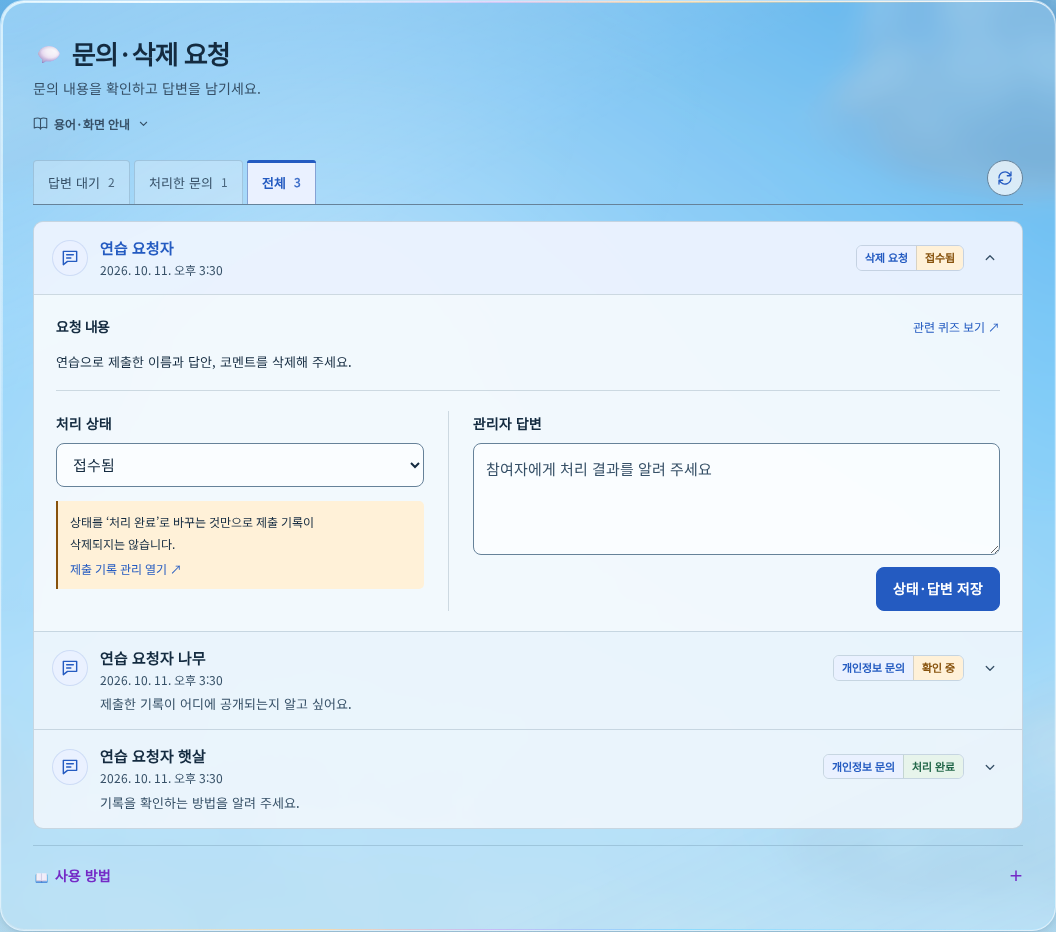
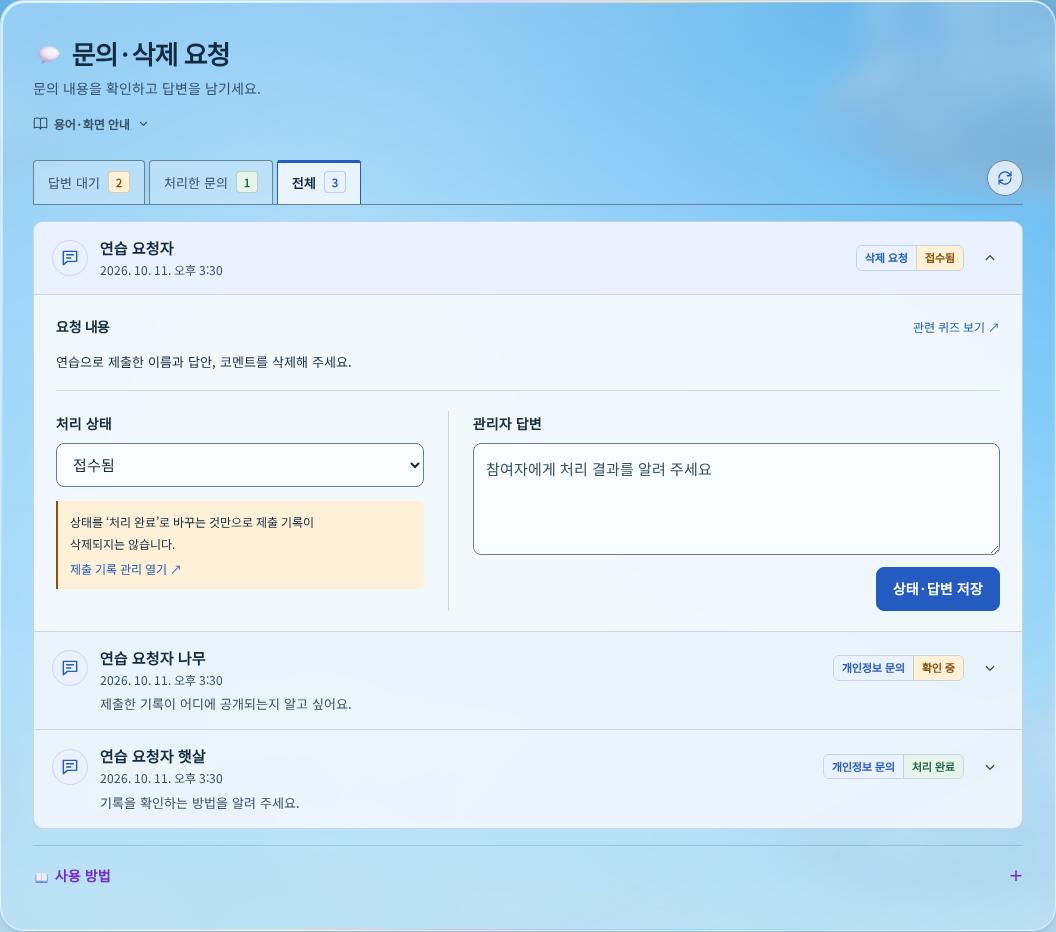
Refine status cells and night board contrast

Changed region(s): [[0.0938, 0.1556, 0.3438, 0.2178], [0.0938, 0.2489, 0.1562, 0.28]]

diff --git a/docs/design/phase-9/admin-boards/review.html b/docs/design/phase-9/admin-boards/review.html
@@ -4,13 +4,27 @@
 <title>관리자 실제 화면과 생성 시안 비교</title>
 <style>
 body{margin:0;background:#eaf4fa;color:#17334a;font:15px/1.7 system-ui,sans-serif}main{max-width:1320px;margin:auto;padding:28px 20px}h1{font-size:26px;margin:0 0 8px}h2{font-size:21px;margin:0 0 8px}p{margin:8px 0 20px}section{border-top:1px solid #b8cfde;padding:24px 0}a{color:#245ac1}nav{display:flex;flex-wrap:wrap;gap:12px 24px;margin:20px 0}img{display:block;width:100%;height:auto;border:1px solid #b8cfde;background:white;border-radius:8px}figure{margin:0;min-width:0}figcaption{font-weight:600;margin-bottom:10px}.compare{display:grid;grid-template-columns:1fr 1fr;gap:24px;align-items:start}.quiz{max-width:1060px}small{display:block;color:#496376}a:focus-visible{outline:3px solid #245ac1;outline-offset:4px}@media(max-width:850px){.compare{grid-template-columns:1fr}}
-</style>
+.themes{display:flex;gap:6px;margin:18px 0}.themes button{min-height:40px;padding:8px 14px;border:1px solid #8baabe;border-radius:5px;background:transparent;color:inherit;cursor:pointer;font:inherit}.themes button[aria-pressed=true]{background:#245ac1;color:white;border-color:#245ac1}.themes button:focus-visible{outline:3px solid #245ac1;outline-offset:3px}body[data-preview=night]{background:#152839;color:#eaf2fa}body[data-preview=night] a{color:#acc8ff}body[data-preview=night] small{color:#c0d2e6}</style>
 <main>
 <h1>관리자 실제 화면과 생성 시안</h1>
-<p>2026년 10월 14일 적용 화면입니다. 바깥 창은 투명하게, 현황과 목록은 선명한 바탕으로 구분했습니다. 실제 React UI에 연습 자료를 표시해 촬영했으며, 이미지를 누르면 원본을 크게 볼 수 있습니다.</p>
+<p>2026년 10월 14일 적용 화면입니다. 현황 세 칸과 Live를 구분하고, 밤의 목록 바탕을 밝은 회청색으로 조정했습니다. 실제 React UI에 연습 자료를 표시해 촬영했으며, 이미지를 누르면 원본을 크게 볼 수 있습니다.</p>
 <nav aria-label="실제 관리자 화면"><a href="/admin">퀴즈 관리 열기</a><a href="/admin/submissions">참여 기록 열기</a><a href="/admin/privacy-requests">문의·삭제 요청 열기</a></nav>
-<section><h2>퀴즈 관리</h2><p>공개 중·작성 중·답변 대기 현황과 Live 퀴즈를 한 행으로 묶었습니다. 그 아래 게시판에는 설교일·제목·참여 인원·작업 아이콘을 모았습니다.</p><figure class="quiz"><figcaption>실제 화면 · 연습 자료</figcaption><a href="quiz-actual.png"><img src="quiz-actual.png" alt="실제 퀴즈 관리: 한 행의 현황·Live와 설교일 기준 게시판"></a></figure></section>
-<section><h2>참여 기록</h2><p>행을 펼치면 왼쪽에는 답안과 코멘트, 오른쪽에는 처리 폼이 나타납니다. 시안의 정오답 색 대신 실제 제출값을 표시합니다.</p><div class="compare"><figure><figcaption>실제 화면 · 연습 자료</figcaption><a href="submissions-actual.png"><img src="submissions-actual.png" alt="실제 참여 기록: 한 행을 펼친 답안과 관리 폼, 나머지 짧은 행"></a></figure><figure><figcaption>기존 생성 시안 · 배치 참고</figcaption><a href="submissions-reference.png"><img src="submissions-reference.png" alt="참여 기록의 기존 생성 시안"></a></figure></div></section>
-<section><h2>문의·삭제 요청</h2><p>접힌 행에는 이름·분류·상태·날짜와 한 줄 미리보기가 보입니다. 펼치면 전체 원문과 상태·답변 폼을 확인할 수 있습니다.</p><div class="compare"><figure><figcaption>실제 화면 · 연습 자료</figcaption><a href="inquiries-actual.png"><img src="inquiries-actual.png" alt="실제 문의 게시판: 펼친 요청의 상태 선택과 답변 입력, 접힌 나머지 요청"></a></figure><figure><figcaption>기존 생성 시안 · 배치 참고</figcaption><a href="inquiries-reference.png"><img src="inquiries-reference.png" alt="문의 게시판의 기존 생성 시안"></a></figure></div></section>
+<div class="themes" role="group" aria-label="실제 화면 시간대"><button type="button" data-preview-time="day" aria-pressed="true">☀ 낮 화면</button><button type="button" data-preview-time="night" aria-pressed="false">☾ 밤 화면</button></div>
+<p>낮·밤 버튼으로 실제 화면을 바꿔 볼 수 있습니다. 기존 생성 시안 두 장은 낮 배경을 유지합니다.</p>
+<section><h2>퀴즈 관리</h2><p>구분선으로 나눈 현황 세 칸은 숫자가 중심이며, 마우스를 올리면 칸 전체가 채워집니다. Live는 초록 표식과 투명한 바탕으로 구분했습니다. 인덱스의 작은 개수 박스에도 의미별 색을 적용했습니다.</p><figure class="quiz"><figcaption>실제 화면 · 연습 자료</figcaption><a href="quiz-actual.png"><img data-screenshot-day="quiz-actual.png" data-screenshot-night="quiz-night.png" src="quiz-actual.png" alt="실제 퀴즈 관리: 한 행의 현황·Live와 설교일 기준 게시판"></a></figure></section>
+<section><h2>참여 기록</h2><p>행을 펼치면 왼쪽에는 답안과 코멘트, 오른쪽에는 처리 폼이 나타납니다. 점수와 상태를 작은 박스로 구분하고, 실제 제출값은 입력한 칸을 파랑·빈칸을 호박색으로 표시합니다.</p><div class="compare"><figure><figcaption>실제 화면 · 연습 자료</figcaption><a href="submissions-actual.png"><img data-screenshot-day="submissions-actual.png" data-screenshot-night="submissions-night.png" src="submissions-actual.png" alt="실제 참여 기록: 한 행을 펼친 답안과 관리 폼, 나머지 짧은 행"></a></figure><figure><figcaption>기존 생성 시안 · 배치 참고</figcaption><a href="submissions-reference.png"><img src="submissions-reference.png" alt="참여 기록의 기존 생성 시안"></a></figure></div></section>
+<section><h2>문의·삭제 요청</h2><p>접힌 행에는 이름·분류·상태·날짜와 한 줄 미리보기가 보입니다. 펼치면 전체 원문과 상태·답변 폼을 확인할 수 있습니다.</p><div class="compare"><figure><figcaption>실제 화면 · 연습 자료</figcaption><a href="inquiries-actual.png"><img data-screenshot-day="inquiries-actual.png" data-screenshot-night="inquiries-night.png" src="inquiries-actual.png" alt="실제 문의 게시판: 펼친 요청의 상태 선택과 답변 입력, 접힌 나머지 요청"></a></figure><figure><figcaption>기존 생성 시안 · 배치 참고</figcaption><a href="inquiries-reference.png"><img src="inquiries-reference.png" alt="문의 게시판의 기존 생성 시안"></a></figure></div></section>
 <small>기존 생성 이미지는 재사용했습니다. 실제 화면 이미지에는 개인 자료나 실제 운영 답안을 포함하지 않았습니다.</small>
-</main></html>
+</main>
+<script>
+const controls=[...document.querySelectorAll('[data-preview-time]')];
+controls.forEach(button=>button.addEventListener('click',()=>{
+ const time=button.dataset.previewTime;
+ document.body.dataset.preview=time;
+ controls.forEach(control=>control.setAttribute('aria-pressed',String(control===button)));
+ document.querySelectorAll('[data-screenshot-day]').forEach(img=>{
+  img.src=time==='night'?img.dataset.screenshotNight:img.dataset.screenshotDay;
+  img.closest('a').href=img.src;
+ });
+}));
+</script></html>

diff --git a/src/features/admin-weekly/dashboard.module.css b/src/features/admin-weekly/dashboard.module.css
@@ -1,16 +1,18 @@
 .page { display: grid; gap: 16px; min-width: 0; }
-.statusBar { display: flex; align-items: stretch; min-width: 0; border: 1px solid var(--line); border-radius: 8px; background: var(--admin-board-surface,var(--glass-solid)); }
-.overview { display: flex; flex-shrink: 0; align-items: center; gap: 12px; padding: 12px 16px; }
-.overview > :is(button,a) { display: flex; align-items: center; gap: 10px; min-height: 36px; padding: 0 4px; border: 0; border-radius: 4px; background: transparent; color: var(--ink); text-decoration: none; font-size: 13px; }
-.overview > :is(button,a):hover { background: var(--glass-soft); }
-.overview strong { font-size: 18px; font-weight: 600; font-variant-numeric: tabular-nums; }
-.overview > :is(button,a) > span:last-child { display: none; }
-.overview > :first-child strong { color: var(--ui-success); }
-.overview > :nth-child(2) strong { color: var(--ui-action); }
-.overview > :nth-child(3) strong { color: var(--ui-attention); }
-.featured { display: flex; flex: 1; min-width: 0; align-items: center; gap: 12px; padding: 12px 16px; border-left: 1px solid var(--line); }
-.featuredCopy { flex: 1; display: grid; grid-template-columns: auto minmax(0,1fr); align-items: baseline; column-gap: 12px; min-width: 0; }
-.caption { display: inline-flex; align-items: center; color: var(--ui-success); font-size: 12px; font-weight: 700; letter-spacing: .02em; }
+.statusBar { display: grid; grid-template-columns: minmax(300px,.85fr) minmax(0,1.5fr); gap: 12px; align-items: stretch; min-width: 0; }
+.overview { display: grid; grid-template-columns: repeat(3,minmax(0,1fr)); border: 1px solid var(--admin-board-border,var(--line)); border-radius: 8px; background: var(--admin-board-surface,var(--glass-solid)); }
+.overview > :is(button,a) { display: flex; flex-direction: column; align-items: flex-start; justify-content: center; gap: 4px; min-height: 84px; min-width: 0; padding: 10px 14px; border: 0; border-radius: 0; background: transparent; color: var(--ink); text-decoration: none; transition: background-color .18s ease; }
+.overview > :is(button,a) + :is(button,a) { border-left: 1px solid var(--admin-board-border,var(--line)); }
+.overview > :first-child { border-radius: 7px 0 0 7px; }
+.overview > :last-child { border-radius: 0 7px 7px 0; }
+.overview > :is(button,a):is(:hover,:focus-visible,[aria-pressed=true]) { background: var(--admin-tone-bg); }
+.metricLabel { display: inline-flex; align-items: center; gap: 4px; color: var(--muted); font-size: 12px; white-space: nowrap; }
+.metricValue { display: inline-flex; align-items: baseline; gap: 5px; line-height: 1.2; color: var(--admin-tone); }
+.metricValue strong { font-size: 26px; font-weight: 600; font-variant-numeric: tabular-nums; }
+.metricValue small { color: var(--muted); font-size: 11px; }
+.featured { display: flex; min-width: 0; align-items: center; gap: 12px; padding: 12px 16px; border: 1px solid var(--line); border-left: 3px solid var(--ui-success); border-radius: 8px; background: var(--glass-soft); }
+.featuredCopy { flex: 1; display: grid; grid-template-columns: auto minmax(0,1fr); align-items: baseline; column-gap: 10px; min-width: 0; }
+.caption { display: inline-flex; justify-self: start; align-items: center; gap: 3px; padding: 3px 7px; border: 1px solid color-mix(in srgb,var(--ui-success) 28%,transparent); border-radius: 4px; color: var(--ui-success); background: var(--ui-success-bg); font-size: 11px; font-weight: 700; letter-spacing: .02em; }
 :global(.sky-app:not(.home-shell) .admin-main) .featured h3 { margin: 0; font-family: 'Noto Sans KR',sans-serif; font-size: 15px; font-weight: 600; line-height: 1.7; overflow-wrap: anywhere; }
 .featured p { grid-column: 2; margin: 2px 0 0; color: var(--muted); font-size: 12px; }
 .featured > a { flex-shrink: 0; font-size: 12px; }
@@ -21,10 +23,10 @@
 .library > [data-admin-list-toolbar] { margin-bottom: 12px; }
 .search { width: min(100%,220px); }
 .search input { width: 100%; min-height: 40px; padding: 8px 12px; border: 1px solid var(--line); border-radius: 6px; background: var(--glass-field); color: var(--ink); font: inherit; font-size: 13px; }
-.quizList { margin: 0; padding: 0; list-style: none; border: 1px solid var(--line); border-radius: 10px; overflow: clip; background: var(--admin-board-surface,var(--glass-solid)); }
-.quizList > li + li { border-top: 1px solid var(--line); }
+.quizList { margin: 0; padding: 0; list-style: none; border: 1px solid var(--admin-board-border,var(--line)); border-radius: 10px; overflow: clip; background: var(--admin-board-surface,var(--glass-solid)); }
+.quizList > li + li { border-top: 1px solid var(--admin-board-border,var(--line)); }
 .quizRow { display: grid; grid-template-columns: 66px minmax(0,1fr) auto; gap: 14px; align-items: center; min-height: 66px; padding: 10px 16px; }
-.quizRow:hover, .quizRow:focus-within { background: var(--ui-action-bg); }
+.quizRow:hover, .quizRow:focus-within { background: var(--admin-board-hover,var(--ui-action-bg)); }
 .date { display: grid; gap: 0; font-variant-numeric: tabular-nums; line-height: 1.5; padding-right: 12px; border-right: 1px solid var(--line); }
 .date span { color: var(--muted); font-size: 10px; }
 .date strong { font-size: 15px; font-weight: 600; }
@@ -53,14 +55,11 @@
 .footer > a:first-child { color: var(--ui-guide); }
 .alert { padding: 12px 16px; border-left: 3px solid var(--danger); background: var(--glass-reading); }
 @media (max-width: 1100px) {
- .statusBar { flex-direction: column; }
- .overview { justify-content: space-between; }
- .featured { border-left: 0; border-top: 1px solid var(--line); }
+ .statusBar { grid-template-columns: minmax(0,1fr); gap: 10px; }
 }
 @media (max-width: 760px) {
- .overview { gap: 6px; padding: 10px 12px; }
- .overview > :is(button,a) { gap: 6px; font-size: 12px; padding-inline: 0; }
- .overview strong { font-size: 16px; }
+ .overview > :is(button,a) { min-height: 78px; padding: 10px; }
+ .metricValue strong { font-size: 24px; }
  .featured { flex-wrap: wrap; padding: 12px; gap: 10px; }
  .featuredCopy { flex-basis: 100%; grid-template-columns: minmax(0,1fr); }
  .featured p { grid-column: 1; }
@@ -74,6 +73,8 @@
  .boardHeading { grid-template-columns: 54px minmax(0,1fr); gap: 10px; padding-inline: 12px; }
  .boardHeading > :last-child { display: none; }
 }
-@media (pointer: coarse) { .participant, .overview > :is(button,a) { min-height: 44px; } }
+@media (pointer: coarse) { .participant { min-height: 44px; } }
 
-@media (max-width: 360px) { .overview > :is(button,a) > span:first-child > [aria-hidden] { display: none; } }
+@media (max-width: 360px) { .metricLabel > [aria-hidden] { display: none; } }
+@media (prefers-reduced-motion: reduce) { .overview > :is(button,a) { transition: none; } }
+@media (forced-colors: active) { .overview > :is(button,a):is(:hover,:focus-visible,[aria-pressed=true]) { outline: 2px solid Highlight; outline-offset: -3px; } }

diff --git a/src/components/admin-list-tools.module.css b/src/components/admin-list-tools.module.css
@@ -1,18 +1,18 @@
 .toolbar { display: flex; flex-wrap: wrap; align-items: end; justify-content: space-between; gap: 8px 16px; border-bottom: 1px solid var(--control-border); min-width: 0; }
 .filters { display: flex; flex-wrap: wrap; align-items: end; gap: 4px; padding-top: 4px; }
-.filters button { position: relative; display: inline-flex; align-items: center; justify-content: center; gap: 8px; min-height: 44px; padding: 10px 14px; border: 1px solid var(--line); border-bottom: 0; border-radius: 4px 4px 0 0; background: var(--glass-soft); color: var(--muted); font-size: 13px; line-height: 1.5; transition: transform .18s ease, background-color .18s ease; }
+.filters button { position: relative; display: inline-flex; align-items: center; justify-content: center; gap: 8px; min-height: 44px; padding: 9px 14px; border: 1px solid var(--control-border); border-bottom: 0; border-radius: 4px 4px 0 0; background: var(--glass-soft); color: var(--muted); font-size: 13px; line-height: 1.5; transition: transform .18s ease, background-color .18s ease; }
 .filters button::before { content: ''; position: absolute; inset: -1px -1px auto; height: 3px; border-radius: 4px 4px 0 0; background: transparent; }
-.filters button[aria-pressed=true] { background: var(--ui-action-bg); color: var(--ui-action); font-weight: 600; border-color: color-mix(in srgb,var(--ui-action) 40%,var(--line)); }
-.filters button[aria-pressed=true]::before { background: var(--ui-action); }
-.filters button:is(:hover,:focus-visible) { transform: translateY(-4px); color: var(--ui-action); background: var(--ui-action-bg); }
-.filters span { font-size: 12px; font-variant-numeric: tabular-nums; opacity: .85; }
+.filters button[aria-pressed=true] { background: var(--admin-board-surface,var(--glass-solid)); color: var(--ink); font-weight: 600; border-color: var(--admin-tone); }
+.filters button[aria-pressed=true]::before { background: var(--admin-tone); }
+.filters button:is(:hover,:focus-visible) { transform: translateY(-4px); color: var(--ink); background: var(--admin-board-surface,var(--glass-solid)); }
+.filters span { display: inline-flex; justify-content: center; align-items: center; min-width: 22px; min-height: 22px; padding-inline: 5px; border: 1px solid color-mix(in srgb,var(--admin-tone) 24%,transparent); border-radius: 4px; background: var(--admin-tone-bg); color: var(--admin-tone); font-size: 11px; font-weight: 600; font-variant-numeric: tabular-nums; }
 .controls { display: flex; align-items: center; gap: 8px; min-width: 0; margin-bottom: 8px; }
 /* One size rule for every refresh and square action; touch keeps a generous target. */
 :global(.sky-app:not(.home-shell) .admin-main) .iconControl:global(.action-button) { --admin-icon-size: 36px; display: inline-flex; justify-content: center; align-items: center; flex: 0 0 var(--admin-icon-size); width: var(--admin-icon-size); height: var(--admin-icon-size); min-width: var(--admin-icon-size); min-height: var(--admin-icon-size); padding: 0; border: 1px solid var(--control-border); border-radius: 8px; color: var(--ui-action); background: var(--glass-field); box-shadow: none; }
 :global(.sky-app:not(.home-shell) .admin-main) .iconControl.refresh:global(.action-button) { border-radius: 50%; }
 .iconControl svg { display: block; width: 18px; height: 18px; flex: 0 0 18px; }
 @media (pointer: coarse) { :global(.sky-app:not(.home-shell) .admin-main) .iconControl:global(.action-button) { --admin-icon-size: 44px; } }
-@media (max-width: 600px) { .toolbar { gap: 8px; } .filters { gap: 3px; } .filters button { padding-inline: 9px; gap: 5px; font-size: 12px; } .controls:has(input) { width: 100%; order: -1; } }
+@media (max-width: 600px) { .toolbar { gap: 8px; } .filters { gap: 3px; } .filters button { padding-inline: 7px; gap: 4px; font-size: 12px; } .filters span { min-width: 20px; min-height: 20px; padding-inline: 4px; } .controls:has(input) { width: 100%; order: -1; } }
 @media (prefers-reduced-motion: reduce) { .filters button { transition: none; } }
 @media (forced-colors: active) { .filters button[aria-pressed=true] { border-color: Highlight; color: Highlight; } .filters button[aria-pressed=true]::before { background: Highlight; } }
 
@@ -30,4 +30,4 @@
 .guideBody { padding: 8px 14px; border: 1px solid var(--line); border-radius: 8px; background: var(--glass-soft); }
 @media (max-width: 600px) { :global(.sky-app:not(.home-shell) .admin-main) .heading h2 { font-size: 23px; } .heading p { font-size: 13px; } .guide > summary { min-height: 44px; } }
 
-@media (max-width: 360px) { .filters button { padding-inline: 5px; gap: 3px; font-size: 11px; } }
+@media (max-width: 360px) { .filters button { padding-inline: 3px; gap: 2px; font-size: 11px; } .filters span { min-width: 0; min-height: 20px; padding-inline: 2px; font-size: 10px; } }

diff --git a/src/features/admin-weekly/Dashboard.tsx b/src/features/admin-weekly/Dashboard.tsx
@@ -51,10 +51,10 @@ export function Component() {
     <AdminBoardHeader title="퀴즈 관리" description="퀴즈를 준비하고, 공개와 참여를 관리하세요." terms={["초안", "발행", "자동 선택", "대표 지정"]} screenshots={["dashboard"]} actions={<ButtonLink variant="primary" to="/admin/new">퀴즈 준비 <span aria-hidden="true">＋</span></ButtonLink>}/>
     {message && <p className={styles.alert} role="alert">{message}</p>}
     <div className={styles.statusBar} data-admin-summary>
-    <div className={styles.overview} aria-label="운영 요약">
-      <button type="button" onClick={() => setFilter("published")}><span><AdminEmoji>📣</AdminEmoji>공개 중</span><strong>{data ? published.length : "—"}</strong><span aria-hidden="true">↗</span></button>
-      <button type="button" onClick={() => setFilter("draft")}><span><AdminEmoji>✏</AdminEmoji>작성 중</span><strong>{data ? drafts.filter(q => !q.expired).length : "—"}</strong><span aria-hidden="true">↗</span></button>
-      <Link data-tone="attention" to="/admin/privacy-requests"><span><AdminEmoji>💬</AdminEmoji>답변 대기</span><strong>{data?.unansweredCount ?? "—"}</strong><span aria-hidden="true">↗</span></Link>
+    <div className={styles.overview} role="group" aria-label="운영 요약">
+      <button type="button" data-admin-tone="success" aria-pressed={filter === "published"} onClick={() => setFilter("published")}><span className={styles.metricLabel}><AdminEmoji>📣</AdminEmoji>공개 중</span><span className={styles.metricValue}><strong>{data ? published.length : "—"}</strong><small>건</small></span></button>
+      <button type="button" data-admin-tone="action" aria-pressed={filter === "draft"} onClick={() => setFilter("draft")}><span className={styles.metricLabel}><AdminEmoji>✏</AdminEmoji>작성 중</span><span className={styles.metricValue}><strong>{data ? drafts.filter(q => !q.expired).length : "—"}</strong><small>건</small></span></button>
+      <Link data-admin-tone="attention" to="/admin/privacy-requests"><span className={styles.metricLabel}><AdminEmoji>💬</AdminEmoji>답변 대기</span><span className={styles.metricValue}><strong>{data?.unansweredCount ?? "—"}</strong><small>건</small></span></Link>
     </div>
     {data && <section className={styles.featured} aria-labelledby="home-quiz-heading">
       <div className={styles.featuredCopy}><span className={styles.caption}><AdminEmoji>📡</AdminEmoji>Live</span>
@@ -68,7 +68,7 @@ export function Component() {
       <div className={styles.sectionHeading}><h3 id="quiz-library-heading"><AdminLabel text="퀴즈 목록"/> <span>{items.length}</span></h3>
         <AdminRefreshButton disabled={loading} onClick={() => { setMessage(""); setLoading(true); setAttempt(v => v + 1); }} label="운영 상태 새로고침" title="퀴즈 목록 새로고침"/>
       </div>
-      <AdminFilterTabs label="퀴즈 상태" value={filter} onChange={setFilter} options={([['all', '전체', items.length], ['draft', '작성 중', drafts.length], ['published', '공개 중', published.length], ['archived', '지난 퀴즈', archived.length]] as const).map(([value,label,count])=>({value,label,count}))}>
+      <AdminFilterTabs label="퀴즈 상태" value={filter} onChange={setFilter} options={([['all', '전체', items.length, 'action'], ['draft', '작성 중', drafts.length, 'action'], ['published', '공개 중', published.length, 'success'], ['archived', '지난 퀴즈', archived.length, 'guide']] as const).map(([value,label,count,tone])=>({value,label,count,tone}))}>
         <label className={styles.search}><span className="sr-only">퀴즈 검색</span><input type="search" placeholder="제목 또는 날짜 검색" value={search} onChange={e => setSearch(e.target.value)}/></label>
       </AdminFilterTabs>
       {!data && loading ? <div className={styles.empty} role="status">퀴즈를 불러오고 있습니다.</div> : !data ? <div className={styles.empty}>새로고침을 눌러 목록을 다시 불러오세요.</div> : rows.length === 0 ? <div className={styles.empty}><h4>{items.length ? "조건에 맞는 퀴즈가 없습니다" : "첫 퀴즈를 준비해 보세요"}</h4><p>{items.length ? "검색어나 상태를 바꾸면 다른 퀴즈를 볼 수 있습니다." : "설교 영상 등록부터 문제 검토와 발행까지 한 화면에서 이어집니다."}</p>{!items.length && <ButtonLink to="/admin/new">퀴즈 준비하기</ButtonLink>}</div> :

diff --git a/src/features/admin-weekly/records.module.css b/src/features/admin-weekly/records.module.css
@@ -1,5 +1,5 @@
 .page { display: grid; gap: 16px; min-width: 0; }
-.list { display: grid; gap: 0; list-style: none; padding: 0; margin: 0; border: 1px solid var(--line); border-radius: 10px; background: var(--admin-board-surface,var(--glass-solid)); min-width: 0; overflow: clip; }
+.list { display: grid; gap: 0; list-style: none; padding: 0; margin: 0; border: 1px solid var(--admin-board-border,var(--line)); border-radius: 10px; background: var(--admin-board-surface,var(--glass-solid)); min-width: 0; overflow: clip; }
 .list:empty { display: none; }
 .fields { display: grid; grid-template-columns: minmax(0,2fr) minmax(0,1fr) minmax(0,1fr); gap: 12px; align-items: end; padding-bottom: 16px; border-bottom: 1px solid var(--line); }
 .fields label { display: grid; gap: 6px; min-width: 0; font-size: 12px; color: var(--muted); }
@@ -12,7 +12,7 @@
 .empty { padding: 28px 20px; border: 1px dashed var(--control-border); border-radius: 8px; text-align: center; }
 .empty h3 { margin: 0 0 8px; }
 .empty p, .muted { color: var(--muted); margin-bottom: 0; font-size: 13px; }
-.score { font-variant-numeric: tabular-nums; font-weight: 600; color: var(--ui-success); }
+.score { padding: 1px 6px; border: 1px solid color-mix(in srgb,var(--ui-action) 24%,transparent); border-radius: 4px; background: var(--ui-action-bg); color: var(--ui-action); font-variant-numeric: tabular-nums; font-weight: 600; }
 .submissionDetail { display: grid; grid-template-columns: minmax(0,1.3fr) minmax(240px,1fr); gap: 24px; }
 :global(.sky-app:not(.home-shell) .admin-main) :is(.submissionDetail,.inquiryMessage) h4 { margin: 0 0 12px; font-family: 'Noto Sans KR',sans-serif; font-size: 14px; font-weight: 600; line-height: 1.6; }
 .answerSection { min-width: 0; }
@@ -22,9 +22,9 @@
 .manageFields label, .reply label { display: grid; gap: 6px; min-width: 0; font-size: 12px; font-weight: 500; }
 .manageFields textarea { min-height: 76px; resize: vertical; }
 .answers { display: grid; grid-template-columns: repeat(auto-fill,minmax(54px,1fr)); gap: 6px; margin: 0; }
-.answers > div { display: flex; flex-direction: column; align-items: center; justify-content: center; gap: 2px; min-width: 0; min-height: 58px; padding: 5px; border: 1px solid var(--line); border-radius: 6px; background: var(--glass-field); }
-.answers dt { font-size: 10px; color: var(--muted); font-variant-numeric: tabular-nums; }
-.answers dd { margin: 0; font-size: 16px; font-weight: 600; color: var(--ink); overflow-wrap: anywhere; }
+.answers > div { display: flex; flex-direction: column; align-items: center; justify-content: center; gap: 2px; min-width: 0; min-height: 58px; padding: 5px; border: 1px solid color-mix(in srgb,var(--admin-tone) 24%,transparent); border-radius: 6px; background: var(--admin-tone-bg); }
+.answers dt { font-size: 10px; color: var(--admin-tone); font-variant-numeric: tabular-nums; }
+.answers dd { margin: 0; font-size: 16px; font-weight: 600; color: var(--admin-tone); overflow-wrap: anywhere; }
 .comment { margin-top: 22px; }
 .comment blockquote, .inquiryMessage blockquote { margin: 0; padding: 0; font-size: 13px; line-height: 1.85; overflow-wrap: anywhere; white-space: pre-wrap; }
 .comment blockquote { padding: 12px; background: var(--glass-soft); border-left: 2px solid var(--ui-guide); border-radius: 0 6px 6px 0; }

diff --git a/src/components/admin-record.module.css b/src/components/admin-record.module.css
@@ -1,13 +1,13 @@
 .record { min-width: 0; background: transparent; }
-.record + .record { border-top: 1px solid var(--line); }
+.record + .record { border-top: 1px solid var(--admin-board-border,var(--line)); }
 .disclosure > summary { display: grid; grid-template-columns: 36px minmax(0,1fr) auto 28px; align-items: center; gap: 2px 12px; padding: 14px 18px; cursor: pointer; list-style: none; border-radius: 0; color: var(--ink); }
 .disclosure > summary::-webkit-details-marker { display: none; }
 :global(.sky-app:not(.home-shell) .admin-main) .disclosure > summary { margin: 0; }
-.disclosure > summary:is(:hover,:focus-visible) { color: var(--ink); background: var(--ui-action-bg); }
-.disclosure[open] > summary { background: color-mix(in srgb,var(--ui-action-bg) 55%,transparent); }
+.disclosure > summary:is(:hover,:focus-visible) { color: var(--ink); background: var(--admin-board-hover,var(--ui-action-bg)); }
+.disclosure[open] > summary { background: var(--admin-board-hover,var(--ui-action-bg)); }
 .avatar { display: grid; place-items: center; width: 36px; height: 36px; border-radius: 50%; color: var(--ui-action); background: var(--ui-action-bg); border: 1px solid color-mix(in srgb,var(--ui-action) 14%,transparent); }
 .identity { min-width: 0; }
-.title { display: block; font-family: 'Noto Sans KR',sans-serif; font-size: 15px; font-weight: 600; line-height: 1.6; overflow-wrap: anywhere; }
+.title { display: block; color: var(--ink); font-family: 'Noto Sans KR',sans-serif; font-size: 15px; font-weight: 600; line-height: 1.6; overflow-wrap: anywhere; }
 .badge { display: inline-flex; align-items: stretch; flex-shrink: 0; border: 1px solid var(--line); border-radius: 6px; overflow: hidden; font-size: 11px; line-height: 1.6; white-space: nowrap; }
 .label, .status { padding: 3px 8px; }
 .label { color: var(--ui-action); background: var(--ui-action-bg); }
@@ -19,7 +19,7 @@
 .disclosure[open] .toggle svg { transform: rotate(180deg); }
 .preview { font-weight: 400; grid-column: 2 / 4; color: var(--muted); overflow: hidden; white-space: nowrap; text-overflow: ellipsis; font-size: 13px; line-height: 1.8; }
 .disclosure[open] .preview { display: none; }
-.body { padding: 20px 22px; border-top: 1px solid var(--line); background: color-mix(in srgb,var(--glass-field) 60%,transparent); }
+.body { padding: 20px 22px; border-top: 1px solid var(--admin-board-border,var(--line)); background: var(--admin-board-detail,var(--glass-field)); }
 .body :is(input,select,textarea) { width: 100%; min-width: 0; }
 @media (max-width: 600px) {
  .disclosure > summary { grid-template-columns: minmax(0,1fr) auto 20px; gap: 6px 8px; padding: 12px; }

diff --git a/tests/e2e/admin-guide-capture.spec.ts b/tests/e2e/admin-guide-capture.spec.ts
@@ -48,10 +48,16 @@ test('capture operator guide examples', async ({ page }) => {
     const scroll=await page.evaluate(()=>({x:scrollX,y:scrollY}));
     await page.screenshot({path:`public/images/admin-guide/${id}.png`,animations:'disabled',fullPage:true,clip:{x:a.x+scroll.x,y:a.y+scroll.y,width:a.width,height:b.y+b.height-a.y}});
   }
+  async function boardShot(id:string) {
+    await page.locator('.admin-main').screenshot({path:`docs/design/phase-9/admin-boards/${id}-actual.png`,animations:'disabled'});
+    await page.getByRole('button',{name:'밤',exact:true}).click();
+    await expect(page.locator('body')).toHaveAttribute('data-time','night');
+    await page.locator('.admin-main').screenshot({path:`docs/design/phase-9/admin-boards/${id}-night.png`,animations:'disabled'});
+  }
   const dashboardOnly=process.env.BIBLEQUIZ_CAPTURE_ADMIN_GUIDE_ONLY === 'dashboard';
   await open('/admin');
   await shot('dashboard',page.locator('section[aria-labelledby="quiz-library-heading"]'));
-  if(boardsOnly||dashboardOnly)await page.locator('.admin-main').screenshot({path:'docs/design/phase-9/admin-boards/quiz-actual.png'});
+  if(boardsOnly||dashboardOnly)await boardShot('quiz');
   if(dashboardOnly) { expect(writes).toEqual([]); return; }
   if(!boardsOnly) {
     await open('/admin/quiz/weekly?step=1');
@@ -66,12 +72,12 @@ test('capture operator guide examples', async ({ page }) => {
   await open('/admin/submissions?quiz=published-example');
   await page.locator('[data-admin-record] > details > summary').first().click();
   await shot('submissions',recordFor(page,'연습 참여자'));
-  if(boardsOnly)await page.locator('.admin-main').screenshot({path:'docs/design/phase-9/admin-boards/submissions-actual.png'});
+  if(boardsOnly)await boardShot('submissions');
   await open('/admin/privacy-requests');
   if(boardsOnly)await page.getByRole('group',{name:'문의 상태 필터'}).getByRole('button',{name:/전체/}).click();
   await page.locator('[data-admin-record] > details > summary').first().click();
   await shot('privacy',recordFor(page,'연습 요청자'));
-  if(boardsOnly) { await page.locator('.admin-main').screenshot({path:'docs/design/phase-9/admin-boards/inquiries-actual.png'}); expect(writes).toEqual([]); return; }
+  if(boardsOnly) { await boardShot('inquiries'); expect(writes).toEqual([]); return; }
   await open('/admin/moderation');
   await page.locator('[data-admin-tool="filter-test"] > summary').click();
   await expect(page.getByRole('button',{name:'저장 없이 시험'})).toBeEnabled();

diff --git a/src/styles/interior.css b/src/styles/interior.css
@@ -131,15 +131,29 @@ body[data-time=night] .admin-layout {
 .sky-app:not(.home-shell) .admin-main .secondary-button:hover:not(:disabled):not([aria-disabled=true]) { background: var(--ui-action-bg); border-color: var(--ui-action); }
 @media (forced-colors: active) { .sky-app:not(.home-shell) .admin-main .secondary-button:not(:disabled):not([aria-disabled=true]) { color: ButtonText; } }
 
-/* Board shells show the sky; a stronger surface belongs to the records themselves. */
+/* Clear shells frame brighter reading surfaces, including a neutral slate at night. */
 .sky-app .admin-main:has(> [data-admin-board]) {
-  --admin-board-surface: color-mix(in srgb,var(--glass-solid) 90%,transparent);
+  --admin-board-solid: var(--glass-solid);
+  --admin-board-surface: color-mix(in srgb,var(--admin-board-solid) 90%,transparent);
+  --admin-board-detail: color-mix(in srgb,var(--glass-field) 60%,transparent);
+  --admin-board-hover: var(--ui-action-bg);
+  --admin-board-border: var(--line);
   background: var(--glass-clear);
 }
-body[data-transparency=reduced] .admin-main:has(> [data-admin-board]) { --admin-board-surface: var(--glass-solid); }
+body[data-time=night] .admin-main:has(> [data-admin-board]) {
+  --muted: #d2dfea;
+  --admin-board-link: #ccdeff;
+  --admin-board-solid: #43515c;
+  --admin-board-surface: color-mix(in srgb,var(--admin-board-solid) 96%,transparent);
+  --admin-board-detail: rgb(235 242 249 / .055);
+  --admin-board-hover: color-mix(in srgb,var(--ui-action) 14%,var(--admin-board-solid));
+  --admin-board-border: rgb(216 232 242 / .34);
+}
+.sky-app .admin-main [data-admin-record] a:not(.action-button) { color: var(--admin-board-link,var(--ui-action)); }
+body[data-transparency=reduced] .admin-main:has(> [data-admin-board]) { --admin-board-surface: var(--admin-board-solid); }
 @media (prefers-reduced-transparency: reduce) {
-  .sky-app .admin-main:has(> [data-admin-board]) { --admin-board-surface: var(--glass-solid); }
+  body[data-time] .admin-main:has(> [data-admin-board]) { --admin-board-surface: var(--admin-board-solid); }
 }
 @media (forced-colors: active) {
-  .sky-app .admin-main:has(> [data-admin-board]) { --admin-board-surface: Canvas; background: Canvas; }
+  body[data-time] .admin-main:has(> [data-admin-board]) { --muted: CanvasText; --admin-board-link: LinkText; --admin-board-surface: Canvas; --admin-board-detail: Canvas; --admin-board-hover: Canvas; --admin-board-border: CanvasText; background: Canvas; }
 }

diff --git a/src/components/AdminListTools.tsx b/src/components/AdminListTools.tsx
@@ -3,7 +3,7 @@ import { Button, ButtonLink } from "./Button";
 import { AdminConcepts, AdminLabel, AdminTooltip } from "./AdminHelp";
 import { AdminIcon, type AdminIconName } from "./AdminIcon";
 import { AdminScreenshots } from "./AdminScreenshots";
-import type { AdminTerm } from "../config/admin-help";
+import type { AdminTerm, AdminTone } from "../config/admin-help";
 import type { AdminScreenshotId } from "../config/admin-screenshots";
 import styles from "./admin-list-tools.module.css";
 
@@ -18,12 +18,12 @@ export function AdminIconLink({ label, icon, ...props }: Omit<ComponentProps<typ
 }
 
 export function AdminFilterTabs<T extends string>({ label, options, value, onChange, children }: {
-  label: string; options: readonly { value: T; label: string; count: number | string }[];
+  label: string; options: readonly { value: T; label: string; count: number | string; tone?: AdminTone }[];
   value: T; onChange: (value: T) => void; children?: ReactNode;
 }) {
   return <div className={styles.toolbar} data-admin-list-toolbar>
     <div className={styles.filters} role="group" aria-label={label}>
-      {options.map(option => <button type="button" key={option.value} aria-pressed={value === option.value} onClick={() => onChange(option.value)}>{option.label}<span>{option.count}</span></button>)}
+      {options.map(option => <button type="button" key={option.value} data-admin-tone={option.tone ?? "action"} aria-pressed={value === option.value} onClick={() => onChange(option.value)}>{option.label}<span>{option.count}</span></button>)}
     </div>
     {children && <div className={styles.controls}>{children}</div>}
   </div>;

diff --git a/src/features/admin-weekly/PrivacyInbox.tsx b/src/features/admin-weekly/PrivacyInbox.tsx
@@ -18,7 +18,7 @@ export function Component(){
   const visible=items?.filter(item=>filter==='all'||(filter==='pending'?pending(item.status):!pending(item.status)));
   return <div className={record.page} data-admin-board="inquiries">
     <AdminBoardHeader terms={["처리 완료", "개인정보 삭제"]} screenshots={["privacy"]} title="문의·삭제 요청" description="문의 내용을 확인하고 답변을 남기세요."/>
-    <AdminFilterTabs label="문의 상태 필터" value={filter} onChange={setFilter} options={([['pending','답변 대기'],['done','처리한 문의'],['all','전체']] as const).map(([value,label])=>({value,label,count:items?.filter(item=>value==='all'||(value==='pending'?pending(item.status):!pending(item.status))).length??'—'}))}>
+    <AdminFilterTabs label="문의 상태 필터" value={filter} onChange={setFilter} options={([['pending','답변 대기','attention'],['done','처리한 문의','success'],['all','전체','action']] as const).map(([value,label,tone])=>({value,label,tone,count:items?.filter(item=>value==='all'||(value==='pending'?pending(item.status):!pending(item.status))).length??'—'}))}>
       <AdminRefreshButton label="문의 목록 새로고침" disabled={busy} onClick={()=>{setMessage('');setAttempt(a=>a+1);}}/>
     </AdminFilterTabs>
     {message&&<p role="status">{message}</p>}

diff --git a/src/features/admin-weekly/Submissions.tsx b/src/features/admin-weekly/Submissions.tsx
@@ -42,7 +42,7 @@ export function Component(){
       <div className={record.submissionDetail}>
         <section className={record.answerSection} aria-label="실제 제출 답안">
           <h4><AdminLabel text="실제 제출 답안"/></h4>
-          {item.answers ? <dl className={record.answers}>{Object.entries(item.answers).map(([cell,value])=><div key={cell}><dt>{cell}</dt><dd>{value||'빈칸'}</dd></div>)}</dl> : <p className={record.muted}>개인정보가 삭제되어 답안을 볼 수 없습니다.</p>}
+          {item.answers ? <dl className={record.answers}>{Object.entries(item.answers).map(([cell,value])=><div key={cell} data-admin-tone={value ? "action" : "attention"}><dt>{cell}</dt><dd>{value||'빈칸'}</dd></div>)}</dl> : <p className={record.muted}>개인정보가 삭제되어 답안을 볼 수 없습니다.</p>}
           {item.comment&&<div className={record.comment}><h4><AdminLabel text="참여자 코멘트"/></h4><blockquote>{item.comment}</blockquote></div>}
         </section>
         {item.status!=='deleted'&&<section className={record.management} aria-label="공개 상태·개인정보 관리">

diff --git a/docs/HANDOFF.md b/docs/HANDOFF.md
@@ -2,18 +2,18 @@
 
 ## 현재 작업과 Git
 
-**P9-23 세 게시판의 투명 창과 현황·Live 통합 — 로컬 완료.** `/home/onegem/work/bibleQuiz`, main `face652` / clean에서 재개했다. 이번 커밋 제목은 `Separate clear admin shells and combine live overview`다. 정확한 마지막 해시와 작업 폴더는 `git log -1`·`git status --short`로 확인한다. 후속 보정은 같은 P9-23에서 처리한다.
+**P9-23 현황 구획·밤 대비·색상 인덱스 — 로컬 완료.** `/home/onegem/work/bibleQuiz`, main `1c7af6f` / clean에서 재개했다. 이번 커밋 제목은 `Refine status cells and night board contrast`다. 정확한 마지막 해시와 작업 폴더는 `git log -1`·`git status --short`로 확인한다. 후속 보정은 같은 P9-23에서 처리한다.
 
 ## 변경과 검사
 
-- Dashboard/Submissions/PrivacyInbox의 바깥 창만 맑은 유리로 전환했다. 현황·목록에는 공통 시간대별90% 바탕을 두고 펼친 내용의 읽기 층은 보존한다. 선명하게/투명도 감소·강제 색상은 불투명 대체 표면을 유지한다.
-- Dashboard 현황3개와 Live를 한 행으로 합쳤다. 1100px 이하에서는 같은 영역의 두 줄이며320px에서도 이름/숫자를 유지한다. 기존 선택/필터/링크·새로고침·접기와 입력·자료는 보존했다.
-- 관련 게시판/운영 요약/유리 E2E PC·모바일14건, lint/typecheck, 합성 자료 캡처1건 통과. NO_COLOR 경고는 기존 환경 경고다. 이번 보정에서는 build/전체check/전체E2E·Firefox를 반복하지 않았다. 직전 `face652`의 빌드/Firefox 검사와 구별한다.
-- 실제5173의 세 경로·네 시간대 ×1440/390/320px·접힘/펼침60상태에서 넘침/페이지 오류/API 쓰기0. PC 현황/Live 같은 행, 새로고침 정렬·키보드/입력 보존 확인. 낮/밤 선명하게·강제 색상4상태도 확인했다. 주요 화면 PNG를 직접 열어 대조했다.
-- 설명용 PNG3종과 비교용 실제 UI3장을 합성 GET 자료로 재촬영했다. 다른5개 설명 자산·기존 시안2장 보존. 비교 페이지 이미지5개의 HTTP200/image/png·디코딩·320px 넘침 없음을 확인했으며 사용자 기기의 표시 확인과 구별한다.
-- [P9-23 현재 기록](work/P9-23.md#투명한-창과-현황live-한-행), ignored 증거 `.wrangler/releases/p9-23/clear-boards-*`. Safari/실기기/화면 읽기 프로그램·원격 반영은 미검증이다.
+- Dashboard 현황은 세 숫자 칸·구분선·전체 칸 호버/선택이며 Live는 별도 투명 바탕·초록 선/표식이다. 같은 행/반응형 배치·기존 필터/링크/자료는 유지한다.
+- 밤의 세 게시판 본문을 회청색으로 구분하고 작은 글자·이동 링크·호버 제목 대비를 보완했다. 다른 관리자 표면과 기존 유리·의미색을 보존한다. 선명하게/강제 색상 확인.
+- AdminFilterTabs 개수 박스와 의미색 옵션, 참여 점수/입력 여부 박스를 적용했다. 가상 정오답은 만들지 않는다. 320/390px 탭 분리·모바일 Live 표식 폭을 실제 확인 뒤 보정했다.
+- 관련 E2E PC/모바일14건·lint/typecheck·합성 캡처3회 모두 통과했다. 실제5173 네 시간대·세 경로·1440/390/320px60상태, 관련 모바일24상태·현황12개 호버·중간 폭6종·낮/밤 감소/강제 색상4상태에서 최종 넘침/오류/쓰기0. 키보드·입력 보존·새로고침 중심을 유지한다. 초기 추가 검사에서 의도한 초점 이동과 실제390px 줄 분리를 구분해 해결했다.
+- 설명용 PNG3종과 비교용 실제 UI 낮/밤6장을 합성 GET 자료로 촬영했다. 나머지5개 설명 자산·기존 시안2장 보존. 비교 페이지에서 낮/밤 버튼을 전환하고 원본을 크게 볼 수 있다. PNG8종 HTTP/디코딩·키보드·320px 검사를 사용자 기기 표시 확인과 구별한다.
+- [P9-23 현재 기록](work/P9-23.md#현황과-밤-화면-보정), ignored 증거 `.wrangler/releases/p9-23/status-boards-*`. 이번에는 build/전체check/전체E2E·Firefox/Safari·실기기/화면 읽기 프로그램을 반복하지 않았다. 기존 검사 이력은 작업 기록을 따른다.
 
-폐기한 접근: 바깥 창까지 같은 읽기 바탕을 덮기, 현황과 Live를 별도 큰 영역으로 나누기, 모바일 한 행을 강제해 내용을 자르기. 이전 매뉴얼·필터 재시도·접기 정렬·공통 게시판/버튼은 보존한다.
+폐기한 접근: 작은 버튼만 칠하는 현황 호버, 남색으로만 채운 밤 읽기 표면, 가상 정오답 색, 좁은 화면의 외따로 떨어진 인덱스. 이전 필터 재시도·접기/입력 유지·매뉴얼·공통 버튼은 보존한다.
 
 ## 실행과 다음 첫 작업
 
@@ -26,7 +26,7 @@
 
 도구는 검증된 `/bin/bash`, `login:false`, 명시 workdir, `require_escalated` 승인 검토 경로를 쓴다. 시작 전 ENOENT를 WSL 단절로 판단하거나 승인 거부를 우회하지 않는다. 이미지는 확인된HTTP/첨부로 보여주며 WSL 경로 Markdown만 보내지 않는다.
 
-시작 Pro 잔여84% × 사용자 지정10 =840%, 별도5시간 창 없음. 다음 구현 전 사용량을 확인한다. 읽기 순서: AGENTS → PROJECT_CONTEXT → DECISIONS → STATUS → HANDOFF → implementation 관련 명세 → P9-23 → Git 상태/diff/log.
+시작 Pro 잔여83% × 사용자 지정10 =830%, 별도5시간 창 없음. 다음 구현 전 사용량을 확인한다. 읽기 순서: AGENTS → PROJECT_CONTEXT → DECISIONS → STATUS → HANDOFF → implementation 관련 명세 → P9-23 → Git 상태/diff/log.
 
 push/배포·실제 자료 쓰기·AI 호출·새 의존성은 없다. Preview는 P9-14 소스 `0fbde84` / version `cd6efb0e-2c05-4401-b0bf-692bdf18c5b1`, Production은 P9-04 소스 `37b7254` / version `7aea6843-5288-42da-9bef-bc673e1d9dfe` 그대로다.
 
